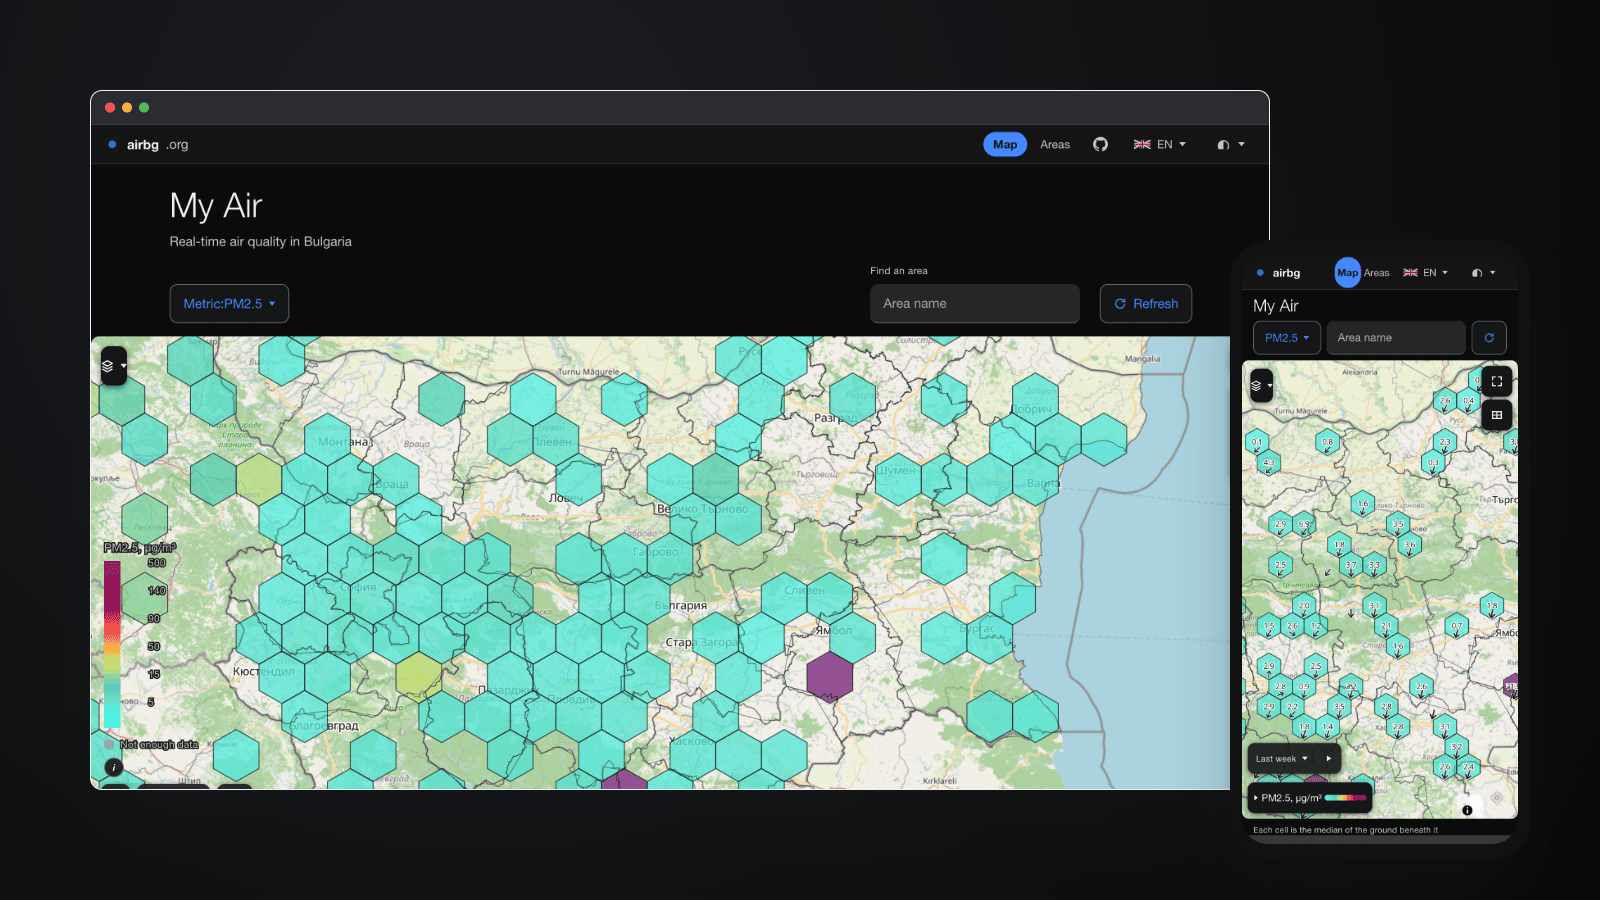
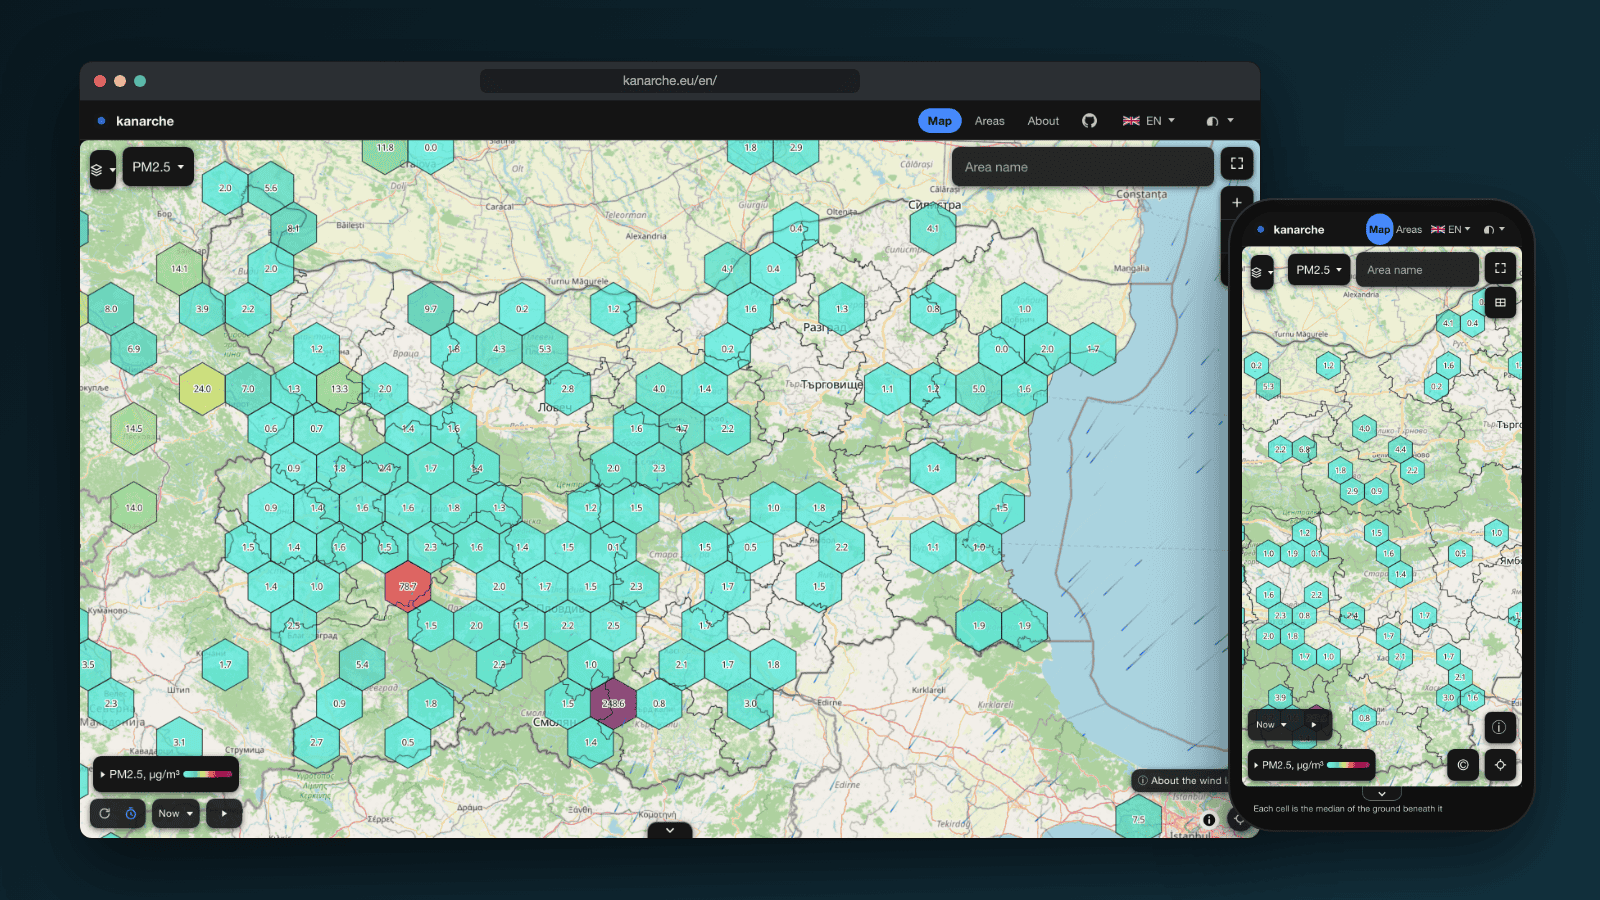
Point the repo links and image path at kanarche, refresh the preview and hero images
Repo URL, ghcr image path and cosign identity examples now use
iliyan-s-petkov/kanarche. Add tools/readme-hero.mjs to regenerate the README
hero images from the live site; regenerate the social preview from kanarche.eu.

diff --git a/internal/web/footer_test.go b/internal/web/footer_test.go
@@ -172,8 +172,8 @@ func TestFooterProjectColumnLinks(t *testing.T) {
 	foot := footerOf(t, fetch(t, renderer(t, cityFixture(t)), "/en/").Body.String())
 	for _, want := range []string{
 		`href="/en/about"`, `href="/en/about-the-data"`, `href="/en/privacy"`, `href="/en/licences"`,
-		`href="https://github.com/iliyan-s-petkov/airbg"`,
-		`href="https://github.com/iliyan-s-petkov/airbg/issues"`,
+		`href="https://github.com/iliyan-s-petkov/kanarche"`,
+		`href="https://github.com/iliyan-s-petkov/kanarche/issues"`,
 	} {
 		if !strings.Contains(foot, want) {
 			t.Errorf("footer lacks %s", want)
@@ -269,7 +269,7 @@ func TestLicencesPageListsEverySourceAndTheCodeLicence(t *testing.T) {
 		"https://eea.government.bg/kav/",
 		"Open-Meteo", "CC BY 4.0", "https://creativecommons.org/licenses/by/4.0/",
 		"© OpenStreetMap contributors", "https://www.openstreetmap.org/copyright",
-		"MIT", "https://github.com/iliyan-s-petkov/airbg/blob/master/LICENSE",
+		"MIT", "https://github.com/iliyan-s-petkov/kanarche/blob/master/LICENSE",
 	} {
 		if !strings.Contains(body, want) {
 			t.Errorf("licences page lacks %q", want)

diff --git a/internal/web/brand_copy_test.go b/internal/web/brand_copy_test.go
@@ -16,7 +16,7 @@ var (
 	brandStyleRe  = regexp.MustCompile(`(?s)<style\b.*?</style>`)
 	// URL-valued attributes carry hosts and repo paths, not copy.
 	brandURLAttrRe = regexp.MustCompile(`\s(?:href|src|action|srcset|data-[a-z-]*(?:url|href))="[^"]*"`)
-	brandRepoURLRe = regexp.MustCompile(`https://github\.com/iliyan-s-petkov/airbg\S*?"`)
+	brandRepoURLRe = regexp.MustCompile(`https://github\.com/iliyan-s-petkov/kanarche\S*?"`)
 	// The clear-settings button lists the pre-rename storage keys it must wipe.
 	brandKeysAttrRe = regexp.MustCompile(`\sdata-keys="[^"]*"`)
 	// The one reference that stays: the other project's own name.

diff --git a/internal/web/audit_fixes_test.go b/internal/web/audit_fixes_test.go
@@ -157,7 +157,7 @@ func TestLanguageMenuCarriesAboutAndSourceLinks(t *testing.T) {
 			t.Fatalf("%s: no language list", path)
 		}
 		list := body[start : start+strings.Index(body[start:], "</ul>")]
-		for _, want := range []string{about, `href="https://github.com/iliyan-s-petkov/airbg"`, `rel="noopener noreferrer"`} {
+		for _, want := range []string{about, `href="https://github.com/iliyan-s-petkov/kanarche"`, `rel="noopener noreferrer"`} {
 			if !strings.Contains(list, want) {
 				t.Errorf("%s: language menu is missing %s", path, want)
 			}

diff --git a/internal/web/source_link_test.go b/internal/web/source_link_test.go
@@ -8,7 +8,7 @@ import (
 // The masthead's link to the source repository. It sits ahead of the language
 // picker, which is the first control in the nav, so the two assertions that
 // matter are that it points at the repository and that it comes first.
-const sourceRepoURL = "https://github.com/iliyan-s-petkov/airbg"
+const sourceRepoURL = "https://github.com/iliyan-s-petkov/kanarche"
 
 // The href form, because the JSON-LD in <head> also names the repository (sameAs).
 const sourceRepoHref = `href="` + sourceRepoURL + `"`

diff --git a/internal/web/jsonld_test.go b/internal/web/jsonld_test.go
@@ -107,7 +107,7 @@ func TestJSONLDHomeHasWebSiteAndOrganization(t *testing.T) {
 		if org == nil || org.Name != brand || org.URL != "https://airbg.org/" {
 			t.Fatalf("%s: Organization = %+v", path, org)
 		}
-		if len(org.SameAs) != 1 || org.SameAs[0] != "https://github.com/iliyan-s-petkov/airbg" {
+		if len(org.SameAs) != 1 || org.SameAs[0] != "https://github.com/iliyan-s-petkov/kanarche" {
 			t.Errorf("%s: Organization.sameAs = %v", path, org.SameAs)
 		}
 	}

diff --git a/internal/web/jsonld.go b/internal/web/jsonld.go
@@ -9,7 +9,7 @@ import (
 
 const (
 	schemaContext = "https://schema.org"
-	sourceRepoURL = "https://github.com/iliyan-s-petkov/airbg"
+	sourceRepoURL = "https://github.com/iliyan-s-petkov/kanarche"
 	// sensor.community's licence, as stated in api.Attributions and the about page.
 	odblURL = "https://opendatacommons.org/licenses/odbl/1-0/"
 	// Bulgaria's extent from data/boundaries/bulgaria.geojson, "south west north east".

diff --git a/docs/deployment.md b/docs/deployment.md
@@ -281,7 +281,7 @@ Run every item below. Do not announce the site until all of them pass.
 Nothing is built on the host or on your workstation. Every push to `master`
 runs `.github/workflows/publish.yml`, which builds the image, scans it with
 Trivy, signs it with cosign (keyless, GitHub OIDC) only when the scan passes,
-and pushes it to `ghcr.io/iliyan-s-petkov/airbg:<short-sha>`. The Ansible
+and pushes it to `ghcr.io/iliyan-s-petkov/kanarche:<short-sha>`. The Ansible
 `airbg` role is the normal release path: it verifies the signature on the
 target, pulls by the signed digest, tags the result `airbg:<short-sha>`, writes
 `AIRBG_IMAGE_TAG`, runs `migrate`, and brings the stack up. See
@@ -293,11 +293,11 @@ Done by hand, the same sequence is:
 TAG=$(git rev-parse --short=7 HEAD)
 ssh airbg "DIGEST=\$(cosign verify \
     --certificate-oidc-issuer=https://token.actions.githubusercontent.com \
-    --certificate-identity-regexp='^https://github\.com/iliyan-s-petkov/airbg/\.github/workflows/publish\.yml@refs/(heads/master|tags/v.*)$' \
-    --output=json ghcr.io/iliyan-s-petkov/airbg:$TAG \
+    --certificate-identity-regexp='^https://github\.com/iliyan-s-petkov/kanarche/\.github/workflows/publish\.yml@refs/(heads/master|tags/v.*)$' \
+    --output=json ghcr.io/iliyan-s-petkov/kanarche:$TAG \
     | jq -r '.[0].critical.image[\"docker-manifest-digest\"]') \
-  && docker pull ghcr.io/iliyan-s-petkov/airbg@\$DIGEST \
-  && docker tag ghcr.io/iliyan-s-petkov/airbg@\$DIGEST airbg:$TAG \
+  && docker pull ghcr.io/iliyan-s-petkov/kanarche@\$DIGEST \
+  && docker tag ghcr.io/iliyan-s-petkov/kanarche@\$DIGEST airbg:$TAG \
   && sed -i 's/^AIRBG_IMAGE_TAG=.*/AIRBG_IMAGE_TAG=$TAG/' /srv/airbg/.env \
   && cd /srv/airbg \
   && docker compose -f docker-compose.prod.yml run --rm app migrate \

diff --git a/deploy/README.md b/deploy/README.md
@@ -108,7 +108,7 @@ itself.
 The Ansible role no longer builds `airbg` on the target host. Every push to
 `master` runs `.github/workflows/publish.yml`, which builds the image, scans it
 with Trivy, and only if the scan passes signs it keylessly with cosign via
-GitHub OIDC and pushes it to `ghcr.io/iliyan-s-petkov/airbg:<short-sha>`. The
+GitHub OIDC and pushes it to `ghcr.io/iliyan-s-petkov/kanarche:<short-sha>`. The
 `airbg` role's `tasks/image.yml` then runs `cosign verify` against that tag on
 the target itself, so the host fetches its own Rekor and Fulcio trust material,
 extracts the signed digest from the verification output, and pulls and tags the
@@ -118,7 +118,7 @@ publish workflow's Actions run.
 
 The GHCR package must be public for the anonymous pull to work. It came out
 public on the first publish (the repository is public); confirm with an
-anonymous `GET https://ghcr.io/v2/iliyan-s-petkov/airbg/tags/list` if a pull
+anonymous `GET https://ghcr.io/v2/iliyan-s-petkov/kanarche/tags/list` if a pull
 ever starts failing with 401.
 
 ## Why there is no collect job

diff --git a/README.md b/README.md
@@ -6,13 +6,13 @@
 
 **Real-time air quality in Bulgaria, from citizen sensors and official stations on one map.**
 
-[Live map](https://airbg.org) · [Embed](docs/embedding.md) · [Docs](#documentation) · [Contributing](CONTRIBUTING.md)
+[Live map](https://kanarche.eu) · [Embed](docs/embedding.md) · [Docs](#documentation) · [Contributing](CONTRIBUTING.md)
 
 </div>
 
 <picture>
   <source media="(prefers-color-scheme: dark)" srcset="docs/images/hero-dark.png">
-  <img src="docs/images/hero-light.png" alt="The Kanarche map of Bulgaria: coloured hexagons showing PM2.5 medians by area,">
+  <img src="docs/images/hero-light.png" alt="The Kanarche map of Bulgaria in a desktop browser and on a phone: coloured hexagons showing PM2.5 medians by area, with wind streaks over the map.">
 </picture>
 
 ## What and why

diff --git a/SECURITY.md b/SECURITY.md
@@ -8,7 +8,7 @@ pipeline in this repository.
 ## Reporting a vulnerability
 
 Please report security vulnerabilities privately using GitHub's
-[private vulnerability reporting](https://github.com/iliyan-s-petkov/airbg/security/advisories/new)
+[private vulnerability reporting](https://github.com/iliyan-s-petkov/kanarche/security/advisories/new)
 for this repository (Security tab > "Report a vulnerability"). Do not open a
 public issue for a security report.
 
